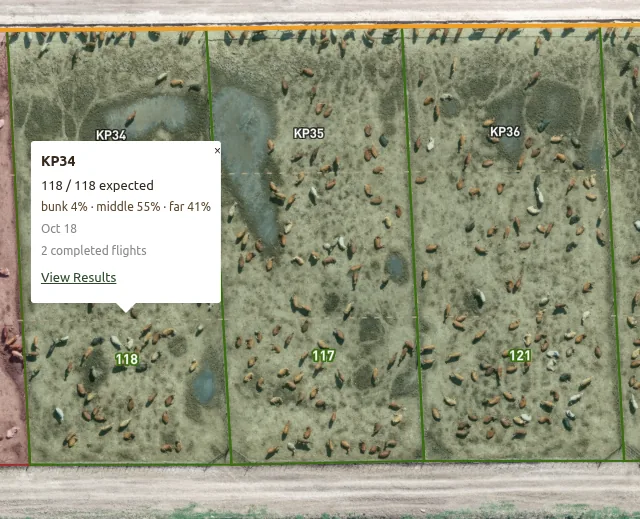
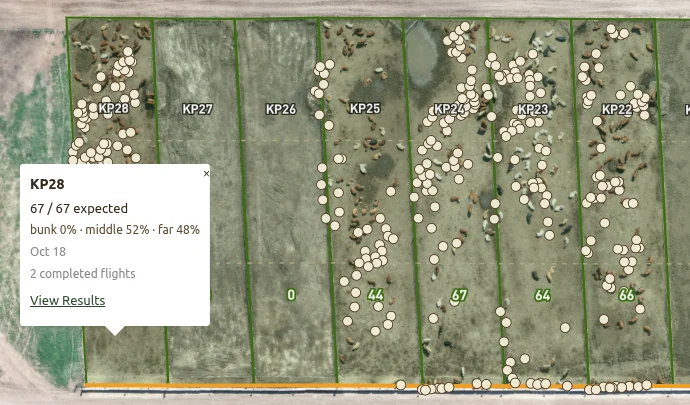
Use cattle positions view for the bunk management section
Claude-Session: https://claude.ai/code/session_0159iGNoViggGwUeZ8gqCsxq

diff --git a/index.html b/index.html
@@ -401,7 +401,7 @@ footer .brand span{font-size:22px}
           </ul>
         </div>
         <figure class="panel rise" style="margin:0">
-          <img class="shot" src="assets/pen-detail.webp" alt="Drone map of a feedlot pen with a popup showing 118 of 118 expected, and 4% of cattle at the bunk, 55% in the middle and 41% at the far end" loading="lazy" width="640" height="519">
+          <img class="shot" src="assets/pen-detail.webp" alt="Drone map of a row of feedlot pens with every animal marked as a dot, and a popup for pen KP28 showing 67 of 67 expected, 0% at the bunk, 52% in the middle and 48% at the far end" loading="lazy" width="690" height="405">
           <figcaption class="cap">FROM THE HEELR DASHBOARD · SHARE OF CATTLE AT THE BUNK, MIDDLE AND FAR END</figcaption>
         </figure>
       </div>
